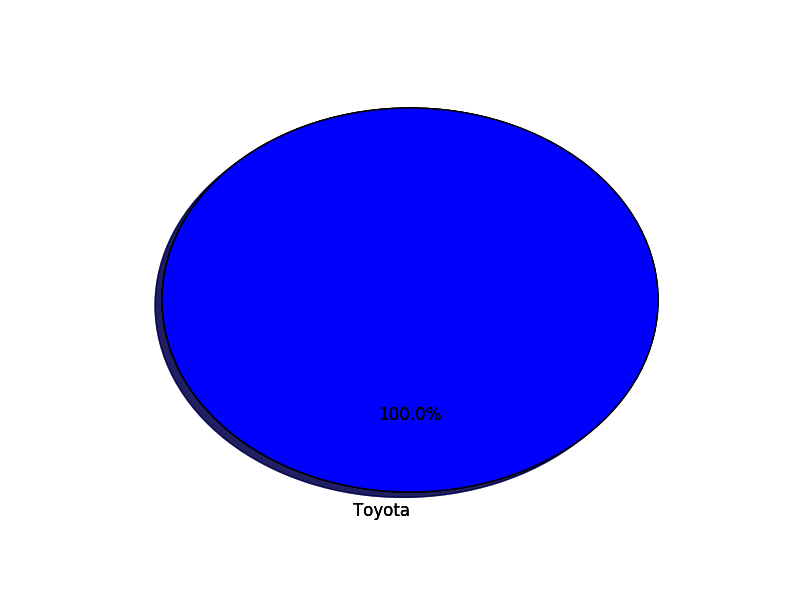
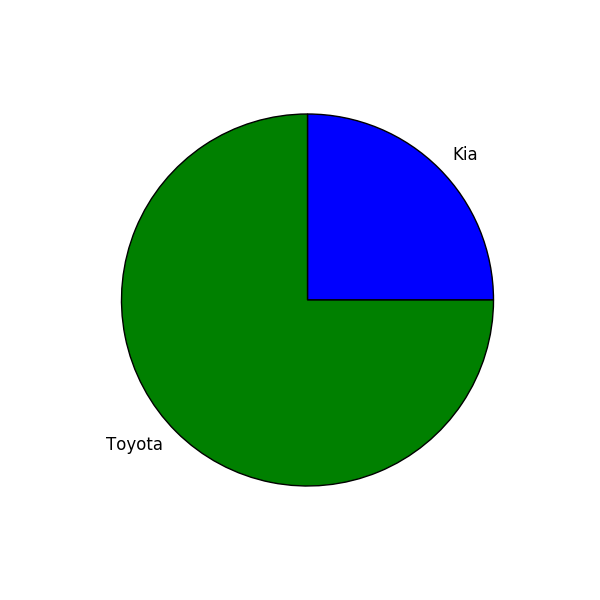
и еще

diff --git a/main.py b/main.py
@@ -43,13 +43,12 @@ def admin_required(f):
 @app.route('/')
 @app.route('/index')
 def index():
-    #posts = [{'brand': 'Mercedes', 'box': '1' }, {'brand': 'Renault', 'box': '3'}]
     brands = get_mark_list()
-    print(brands)
 
     box = {brand[0]: get_list_box_mark(brand[0]) for brand in brands}
-    #path = count_mark()
-    #print(path)
+
+    get_marks_statistic()
+
     return render_template('index.html', x=42, posts=brands, box=box, path_img='static/pie_brand.png')
 
 
@@ -67,8 +66,7 @@ def rent():
                 date_end = datetime.strptime(form.date_end.data, '%d.%m.%Y').date()
                 number = form.number_auto.data
 
-                t = rent_box(date_start, date_end, number
-                             )
+                t = rent_box(date_start, date_end, number)
                 if t == True:
                     flash('Вы арендовали бокс')
                     return redirect('/personal')
@@ -87,16 +85,16 @@ def rent():
 @app.route('/personal', methods=['GET', 'POST'])
 @login_required
 def personal_area():
-    tickets = get_tickets_list()
     client = get_client_name()
 
-    ticket_active = ()
-    ticket_not_active = ()
+    tickets = get_tickets_list()
+    ticket_active = []
+    ticket_not_active = []
     for ticket in tickets:
         if ticket[6] == 'YES':
-            ticket_active += (ticket,)
+            ticket_active.append(ticket)
         else:
-            ticket_not_active += (ticket, )
+            ticket_not_active.append(ticket)
 
     forms = {'AddCar': AddCar(request.form),
              'DeleteCar': DeleteCar(request.form)}

diff --git a/sql_core.py b/sql_core.py
@@ -4,7 +4,7 @@ import sqlite3 as lite
 
 from flask import session
 
-from pylab import *
+import matplotlib.pyplot as plt
 
 from settings import *
 
@@ -33,10 +33,10 @@ def get_marks_statistic():
             labels.append(row[0])
             sizes.append(row[1])
 
-        pie(sizes, labels=labels, autopct='%1.1f%%', shadow=True, startangle=90)
-        savefig('/static/pie_brand.png')
-
-        return '/static/pie_brand.png'
+        plt.figure(num=1, figsize=(6, 6))
+        plt.axes(aspect=1)
+        plt.pie(sizes, labels=labels)
+        plt.savefig(PIE + '\\pie_brand.png', format='png')
 
 
 def get_box_list():
@@ -79,8 +79,6 @@ def get_tickets_list():
                     {'phone': session['phone']})
 
         rows = cur.fetchall()
-
-        print(rows)
 
     return reversed(rows)
 

diff --git a/forms.py b/forms.py
@@ -99,11 +99,11 @@ class BoxList(Form):
                               description="Получить клиента с указанным боксом", coerce=int)
 
 #CLIENT
-
 class AddCar(Form):
     mark_name = SelectField('Название марки', choices=[],
                             description="Добавить машину с выбранной маркой")
     car_number = StringField('Номер машины', [DataRequired(), Length(min=1, max=32)])
+
 
 class DeleteCar(Form):
     car_number = SelectField('Номер машины', choices=[],

diff --git a/settings.py b/settings.py
@@ -1,5 +1,7 @@
 import os
 
+ADMIN = '12345678'
+
 PROJECT_ROOT = os.path.dirname(os.path.realpath(__file__))
 DATABASE = os.path.join(PROJECT_ROOT, 'base.db')
-ADMIN = '12345678'
+PIE = os.path.join(PROJECT_ROOT, 'static')
